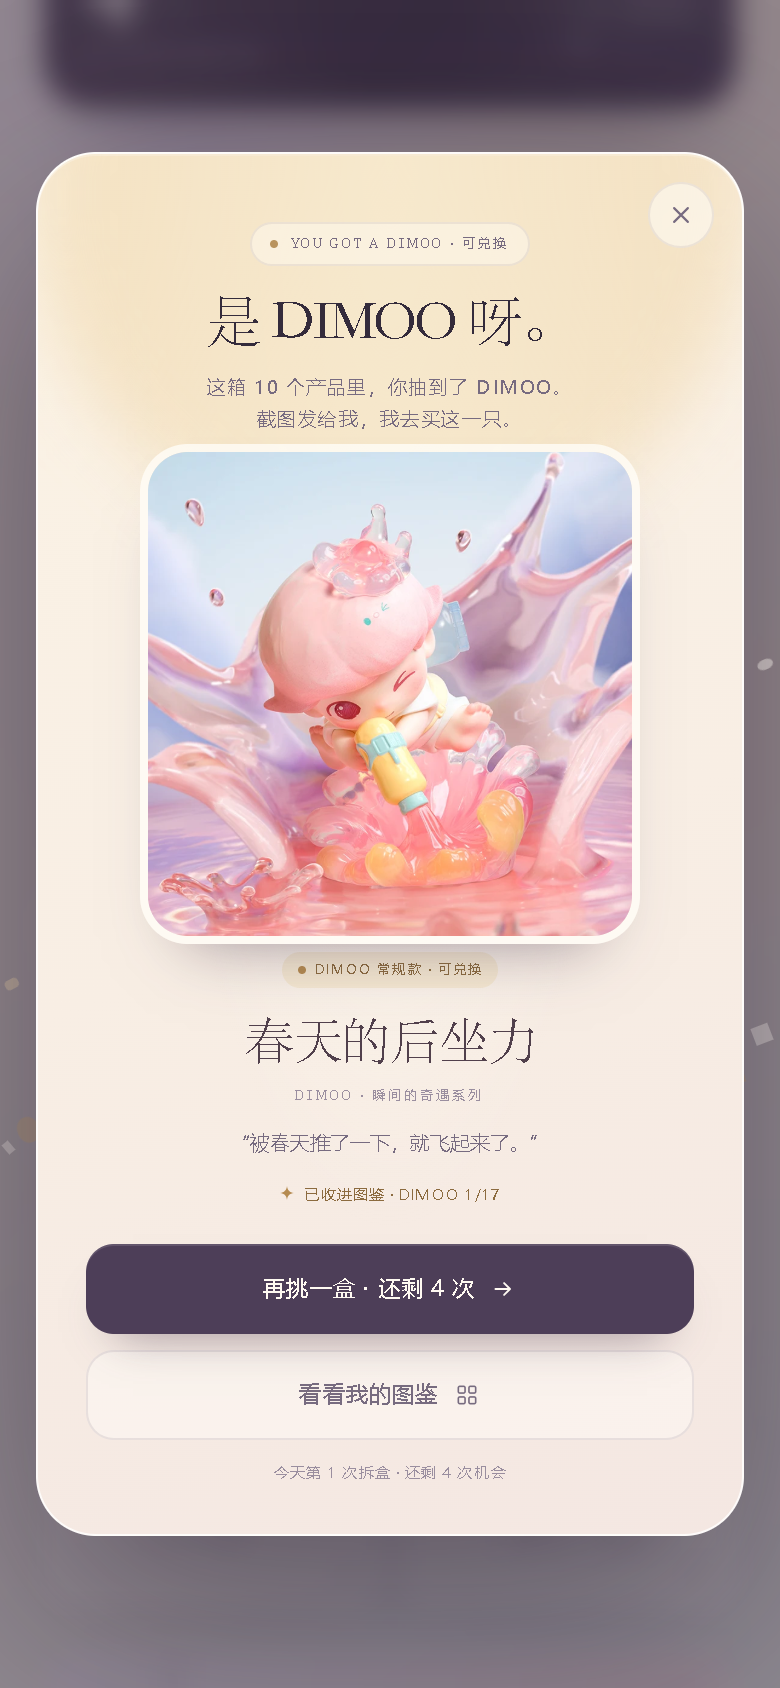
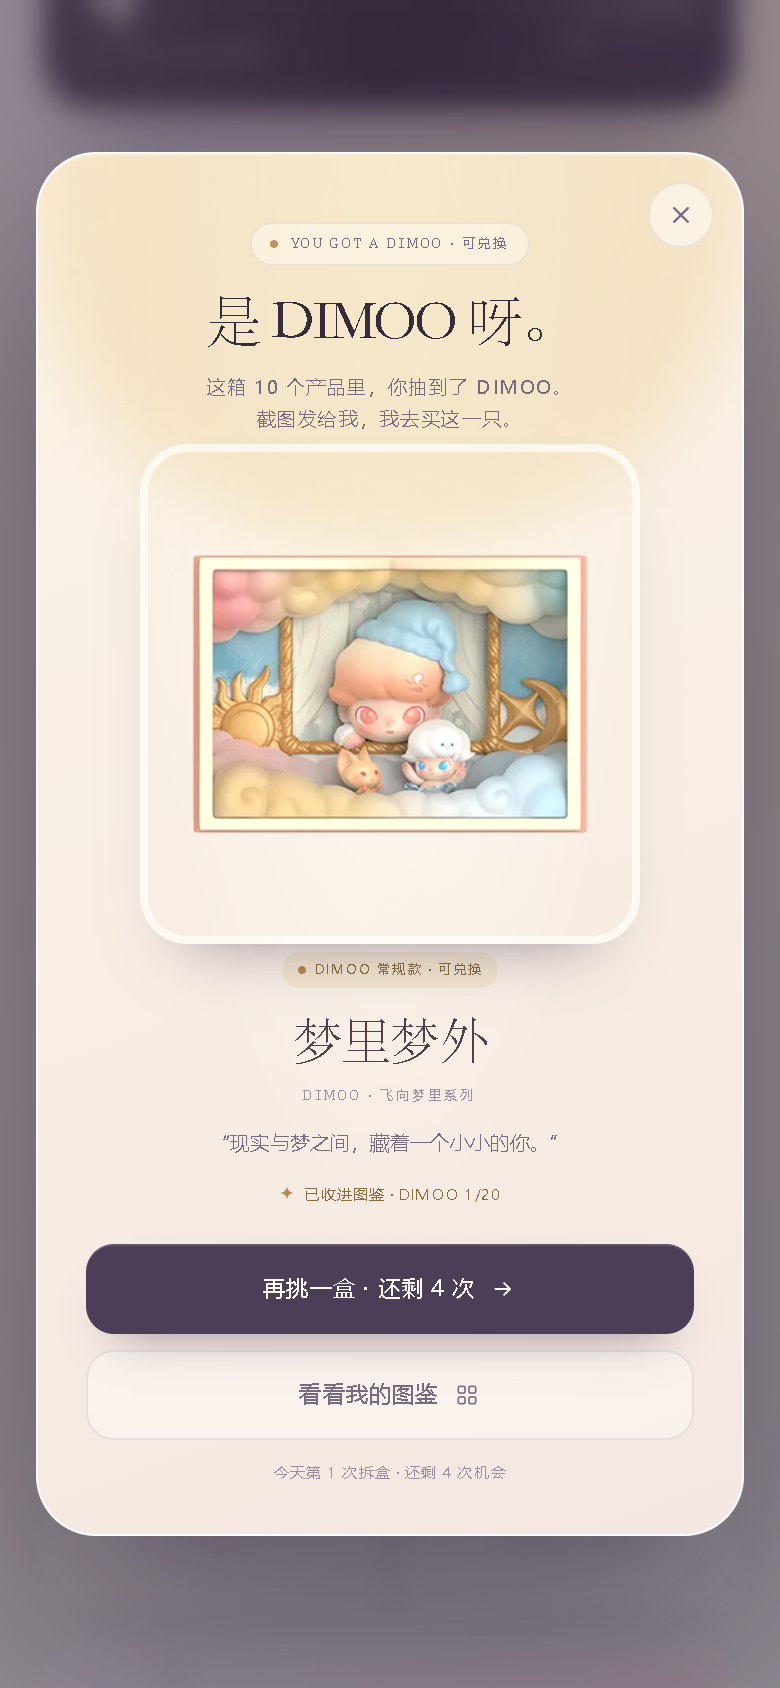
Add newest DIMOO styles and photos for all styles

Changed region(s): [[0.1846, 0.2464, 0.8308, 0.5545], [0.3692, 0.5853, 0.6154, 0.6777], [0.9538, 0.5853, 0.9846, 0.6161]]

diff --git a/app.js b/app.js
@@ -376,6 +376,72 @@
     }
   );
 
+  DIMOO_STYLES.push(
+    {
+      id: "between-dreams",
+      no: "17",
+      name: "梦里梦外",
+      en: "BETWEEN DREAMS AND REALITY",
+      ip: "DIMOO",
+      seriesLabel: "飞向梦里系列",
+      seriesShort: "飞向梦里",
+      redeemable: true,
+      quote: "现实与梦之间，藏着一个小小的你。",
+      prop: "moon",
+      palette: {
+        hair: "#c9d7ea",
+        hairDeep: "#a7b9d2",
+        outfit: "#9aaecb",
+        outfitDeep: "#7d92b1",
+        accent: "#f0d39a",
+        cardA: "#eef4fb",
+        cardB: "#dbe6f3",
+      },
+    },
+    {
+      id: "riding-wind",
+      no: "18",
+      name: "乘风",
+      en: "RIDING THE WIND",
+      ip: "DIMOO",
+      seriesLabel: "飞向梦里系列",
+      seriesShort: "飞向梦里",
+      redeemable: true,
+      quote: "乘着风，去梦里最远的地方。",
+      prop: "paper",
+      palette: {
+        hair: "#e6d5bb",
+        hairDeep: "#cbb693",
+        outfit: "#b9c6a7",
+        outfitDeep: "#95a584",
+        accent: "#f1c87c",
+        cardA: "#f3f7ec",
+        cardB: "#e2ead6",
+      },
+    },
+    {
+      id: "wishwood",
+      no: "19",
+      name: "许愿木",
+      en: "THE WISHWOOD",
+      ip: "DIMOO",
+      seriesLabel: "飞向梦里系列",
+      seriesShort: "飞向梦里",
+      redeemable: true,
+      quote: "把心愿挂上树枝，等它慢慢发光。",
+      prop: "flower",
+      palette: {
+        hair: "#d8e0c2",
+        hairDeep: "#b9c49e",
+        outfit: "#a9b98b",
+        outfitDeep: "#89996d",
+        accent: "#f0d27e",
+        cardA: "#f2f6e9",
+        cardB: "#dfe8cd",
+      },
+    }
+  );
+
   const HIDDEN_DIMOO_STYLE = {
     id: "spring-lights-up",
     no: "H1",
@@ -500,10 +566,10 @@
       id: "crybaby-bunny",
       no: "13",
       name: "哭哭兔",
-      en: "ALL MY LOVE",
+      en: "I'LL GIVE YOU ALL MY LOVE",
       ip: "CRYBABY",
-      seriesLabel: "Crying Again 系列",
-      seriesShort: "Crying Again",
+      seriesLabel: "Crying Again 毛绒系列",
+      seriesShort: "Crying Again 毛绒",
       redeemable: false,
       quote: "今天不哭，把眼泪留给值得的事。",
       label: "CRYBABY",
@@ -524,10 +590,10 @@
       id: "crybaby-bear",
       no: "14",
       name: "哭哭熊",
-      en: "LOVE MAKE US CRY",
+      en: "LOVE MAKES US CRY",
       ip: "CRYBABY",
-      seriesLabel: "Crying Again 系列",
-      seriesShort: "Crying Again",
+      seriesLabel: "Crying Again 毛绒系列",
+      seriesShort: "Crying Again 毛绒",
       redeemable: false,
       quote: "抱一下，眼泪就变甜了。",
       label: "CRYBABY",
@@ -594,6 +660,21 @@
     },
   ];
 
+  const OTHER_IMAGES = {
+    "molly-classic": "./assets/other/molly-classic.webp",
+    "molly-little-moon": "./assets/other/molly-little-moon.webp",
+    "skullpanda-warmth": "./assets/other/skullpanda-warmth.webp",
+    "skullpanda-day-off": "./assets/other/skullpanda-day-off.webp",
+    "crybaby-bunny": "./assets/other/crybaby-bunny.webp",
+    "crybaby-bear": "./assets/other/crybaby-bear.webp",
+    "crybaby-stolen-heart": "./assets/other/crybaby-stolen-heart.webp",
+    "crybaby-rose": "./assets/other/crybaby-rose.webp",
+  };
+
+  for (const style of OTHER_STYLES) {
+    if (OTHER_IMAGES[style.id]) style.image = OTHER_IMAGES[style.id];
+  }
+
   const DIMOO_IMAGES = {
     "packed-spring": "./assets/dimoo/packed-spring.webp",
     blossom: "./assets/dimoo/blossom.webp",
@@ -612,6 +693,9 @@
     "light-up": "./assets/dimoo/light-up.webp",
     "candy-for-you": "./assets/dimoo/candy-for-you.webp",
     "spring-lights-up": "./assets/dimoo/spring-lights-up.webp",
+    "between-dreams": "./assets/dimoo/between-dreams.webp",
+    "riding-wind": "./assets/dimoo/riding-wind.webp",
+    wishwood: "./assets/dimoo/wishwood.webp",
   };
 
   for (const style of [...DIMOO_STYLES, HIDDEN_DIMOO_STYLE]) {
@@ -1729,7 +1813,7 @@
     const ownedOther = getOwnedOtherIds();
     const ownedCount = ownedDimoo.length + ownedOther.length;
     els.albumBadge.textContent = String(ownedCount);
-    els.albumFeatureMeta.textContent = `${ownedDimoo.length} / 17 DIMOO`;
+    els.albumFeatureMeta.textContent = `${ownedDimoo.length} / 20 DIMOO`;
     els.statDimoo.textContent = String(ownedDimoo.length);
     els.statOther.textContent = String(ownedOther.length);
     els.statDraws.textContent = String(state.stats.draws);
@@ -2039,7 +2123,7 @@
       remaining > 0 ? `再挑一盒 · 还剩 ${remaining} 次` : "收好，回盒架";
     const repeatLine = countForStyle > 1 ? ` · 第 ${countForStyle} 次遇见` : "";
     const ownedLine = isDimoo
-      ? `已收进图鉴 · DIMOO ${ownedDimoo}/17${repeatLine}`
+      ? `已收进图鉴 · DIMOO ${ownedDimoo}/20${repeatLine}`
       : `已收进图鉴 · 其他 IP ${ownedOther}/8${repeatLine}`;
 
     const body = isDimoo
@@ -2062,7 +2146,7 @@
           kicker: "ANOTHER POP MART · 不兑换",
           title: "是别的泡泡玛特呀。",
           sub: "这次不是 DIMOO。<br>按约定，这一只不买，只收进图鉴。",
-          art: otherProductSVG(style, `result-${record.at}`),
+          art: styleArtwork(style, `result-${record.at}`),
           badgeClass: "result-badge result-badge--other",
           badge: "其他泡泡玛特 · 不兑换",
           series: `${style.ip} · ${style.seriesLabel}`,

diff --git a/index.html b/index.html
@@ -228,7 +228,7 @@
           <span class="feature-text">
             <small>MY COLLECTION</small>
             <b>我的图鉴</b>
-            <em id="albumFeatureMeta">0 / 17 DIMOO</em>
+            <em id="albumFeatureMeta">0 / 20 DIMOO</em>
           </span>
           <svg class="icon feature-arrow"><use href="#i-arrow"></use></svg>
         </button>
@@ -280,7 +280,7 @@
       <p class="sheet-note">抽中 DIMOO 才兑换；其他泡泡玛特产品只收进图鉴，不兑换。</p>
 
       <div class="album-stats">
-        <div><strong id="statDimoo">0</strong><span>/ 17</span><small>DIMOO（含隐藏）</small></div>
+        <div><strong id="statDimoo">0</strong><span>/ 20</span><small>DIMOO（含隐藏）</small></div>
         <div><strong id="statOther">0</strong><span>/ 8</span><small>其他泡泡玛特</small></div>
         <div><strong id="statDraws">0</strong><span>次</span><small>拆盒次数</small></div>
       </div>
@@ -331,7 +331,7 @@
 
       <div class="rule-copy">
         <p>一箱 10 盒，全部有产品，没有空盒。每箱固定 2 个 DIMOO + 8 个其他 IP 产品；10 个产品互不重复，位置随机打乱。</p>
-        <p>每批先掷一次隐藏：约 5% 概率把其中一个 DIMOO 换成隐藏款「春天亮起来」，剩下一个仍是常规 DIMOO；其余 95% 是 2 个常规 DIMOO。常规 DIMOO 从 16 款中不重复抽取（最新「瞬间的奇遇」全 12 款 + 4 款经典）。</p>
+        <p>每批先掷一次隐藏：约 5% 概率把其中一个 DIMOO 换成隐藏款「春天亮起来」，剩下一个仍是常规 DIMOO；其余 95% 是 2 个常规 DIMOO。常规 DIMOO 从 19 款中不重复抽取（「瞬间的奇遇」全 12 款 +「飞向梦里」3 款 + 4 款经典）。</p>
         <p>8 个其他 IP 产品固定。每天 5 次机会，次日零点补满；这一箱没拆完会留到明天，10 盒拆完后自动换新箱。</p>
         <p>开箱前随机挑一盒，抽中 DIMOO 的概率是 2/10 = 20%（隐藏款也算 DIMOO）；已知开盒结果或提示后，剩余盒子的实际概率会变化。没有空盒，也没有保底。</p>
         <p><b>换下一批：</b>点盒子下面的“换下一批十盒”，可以不消耗今日次数自由换一批。新一批会重新随机 2 个 DIMOO、隐藏款和 10 个盒位，并重置本箱进度和提示；已经拆到的产品、图鉴和次数都保留。</p>
@@ -351,7 +351,7 @@
 
       <div class="disclaimer">
         <svg class="icon"><use href="#i-info"></use></svg>
-        <p>本页面为个人制作的同人向小工具，非泡泡玛特官方产品。DIMOO、MOLLY、SKULLPANDA、CRYBABY 的产品名仅用于私人抽盒结果的索引；DIMOO 结果照片引用自 POP MART 官方商品图，仅用于私人识别，版权归原权利人所有；其他 IP 的包装为手绘同人版本，并非官方商品图。页面不售卖任何商品，也不涉及真实交易；抽盒记录仅保存在当前浏览器里，换设备或清理浏览器数据后不会同步。</p>
+        <p>本页面为个人制作的同人向小工具，非泡泡玛特官方产品。DIMOO、MOLLY、SKULLPANDA、CRYBABY 的产品名仅用于私人抽盒结果的索引；所有结果页和图鉴照片均引用自 POP MART 官方商品图，仅用于私人识别，版权归原权利人所有；抽盒机外壳插画为手绘同人版本。页面不售卖任何商品，也不涉及真实交易；抽盒记录仅保存在当前浏览器里，换设备或清理浏览器数据后不会同步。</p>
       </div>
 
       <button class="sheet-primary" type="button" data-close-dialog>知道啦</button>

diff --git a/sw.js b/sw.js
@@ -1,5 +1,5 @@
 /* 云朵抽盒社 · offline shell */
-const CACHE_NAME = "cloudbox-gift-v10";
+const CACHE_NAME = "cloudbox-gift-v11";
 const APP_SHELL = [
   "./",
   "./index.html",
@@ -29,6 +29,17 @@ const APP_SHELL = [
   "./assets/dimoo/light-up.webp",
   "./assets/dimoo/candy-for-you.webp",
   "./assets/dimoo/spring-lights-up.webp",
+  "./assets/dimoo/between-dreams.webp",
+  "./assets/dimoo/riding-wind.webp",
+  "./assets/dimoo/wishwood.webp",
+  "./assets/other/molly-classic.webp",
+  "./assets/other/molly-little-moon.webp",
+  "./assets/other/skullpanda-warmth.webp",
+  "./assets/other/skullpanda-day-off.webp",
+  "./assets/other/crybaby-bunny.webp",
+  "./assets/other/crybaby-bear.webp",
+  "./assets/other/crybaby-stolen-heart.webp",
+  "./assets/other/crybaby-rose.webp",
 ];
 
 self.addEventListener("install", (event) => {

diff --git a/README.md b/README.md
@@ -2,7 +2,7 @@
 
 一台只给一个人开机的泡泡玛特云朵抽盒机。参考泡泡玛特抽盒小程序的“挑盒 / 摇提示 / 拆盒 / 集图鉴”体验，做成了不需要服务器、打开就能玩的私人 H5。
 
-**现在没有空盲盒。一箱 10 盒，全部是产品；每箱固定 2 个 DIMOO + 8 个其他 IP。2 个 DIMOO 从 16 款常规 + 1 款隐藏里随机，隐藏款每批约 5% 概率出现；盒子下面可以自由“换下一批十盒”。**
+**现在没有空盲盒。一箱 10 盒，全部是产品；每箱固定 2 个 DIMOO + 8 个其他 IP。2 个 DIMOO 从 19 款常规 + 1 款隐藏里随机，隐藏款每批约 5% 概率出现；盒子下面可以自由“换下一批十盒”。所有款式都有对应的官方商品照片。**
 
 ![首页](preview/home-top.png)
 
@@ -11,32 +11,33 @@
 - **一箱 10 盒，全部有产品**：没有空盒、没有“再来一次”。
 - **每箱固定 2 个 DIMOO + 8 个其他 IP 产品**：10 个产品互不重复，位置每批重新打乱。
 - **隐藏款 DIMOO「春天亮起来」**：每批约 **5%** 概率把其中一个 DIMOO 换成隐藏款；剩下一个仍是常规 DIMOO。每批最多 1 个隐藏，隐藏也算 DIMOO，可兑换。
-- **16 款常规 DIMOO 随机**：最新「瞬间的奇遇」全 12 款 + 4 款经典，从 16 款里不重复抽 2 款；不是固定只出原来那四款。
-- **每个常规款都有对应商品照片**：结果页中间显示抽到的具体款式照片，不再用一张通用 DIMOO 插画代替。
+- **19 款常规 DIMOO 随机**：「瞬间的奇遇」全 12 款 +「飞向梦里」3 款 + 4 款经典，从 19 款里不重复抽 2 款；不是固定只出原来那四款。
+- **每个款式都有对应商品照片**：DIMOO 的 19 款常规 + 1 款隐藏，以及 MOLLY / SKULLPANDA / CRYBABY 的 8 款，都有自己的官方商品图；结果页中间显示抽到的具体款式照片，不再用通用插画代替。
 - **自由换下一批**：盒子下方有“换下一批十盒”。不消耗今日次数；会重新随机 2 个 DIMOO、隐藏款和 10 个盒位，并重置本箱进度和提示。已经拆到的产品、图鉴、统计和今日次数都保留。
 - **其他 8 个产品固定**：来自 MOLLY / SKULLPANDA / CRYBABY，共 2 个 MOLLY + 2 个 SKULLPANDA + 4 个 CRYBABY。每批变化的是 2 个 DIMOO、隐藏和 10 个盒位。
 - **每天 5 次机会**：北京时间 00:00 补满；这一箱没拆完会留到明天，10 盒拆完后自动换新箱。
 - **只有 DIMOO / 隐藏款才兑换**：抽中后截图给男朋友，他去买对应盲盒；抽中其他 IP 产品，按约定不兑换，只收进图鉴。
 - **每个盒子 2 次排除提示**：提示会从**本箱 10 个产品**里排除一个，不会改变盒内结果，也不会透露位置。
 - **提示跨天保留**：提示跟着盒子走；拆完这一箱或换下一批时才刷新。
-- **图鉴与记录**：16 款常规 DIMOO + 1 款隐藏 + 8 款其他 IP，共 25 个图鉴位；DIMOO 统计为 /17，并记录拆盒次数。
+- **图鉴与记录**：19 款常规 DIMOO + 1 款隐藏 + 8 款其他 IP，共 28 个图鉴位；DIMOO 统计为 /20，并记录拆盒次数。
 - **移动端优先**：支持添加到手机主屏幕，作为 PWA 离线打开。
 - **没有付费、没有后台、没有真实交易**：记录只存在当前浏览器里。
 
 ## 这一版新增
 
 - 补齐最新「瞬间的奇遇」全 12 款常规，另有 1 款隐藏；
-- 保留原来的 4 款经典，DIMOO 常规款扩到 16 款；
-- 每个常规款都有对应的官方商品照片，结果页中间直接显示抽到的具体款式；
+- 加入 2026 年 11 月最新的「飞向梦里」3 款常规；
+- 保留原来的 4 款经典，DIMOO 常规款扩到 19 款；
+- DIMOO、MOLLY、SKULLPANDA、CRYBABY 所有款式都补上了官方商品照片，结果页中间直接显示抽到的具体款式；
 - 加入隐藏款 DIMOO「春天亮起来」，每批约 5%；
 - 加入“换下一批十盒”按钮，可自由切换批次，不消耗次数；
 - 换批会重新随机 2 个 DIMOO、隐藏款和 10 个盒位；
 - 新批次的 2 个 DIMOO 组合会与上一批不同，不会连续刷出同一组；
-- 图鉴扩到 25 格，DIMOO 统计改为 /17。
+- 图鉴扩到 28 格，DIMOO 统计改为 /20。
 
 ## 完整产品池
 
-### DIMOO：每箱随机 2 个（常规 16 款 + 隐藏 1 款）
+### DIMOO：每箱随机 2 个（常规 19 款 + 隐藏 1 款）
 
 | 系列 | 款式 | 类型 |
 | --- | --- | --- |
@@ -52,6 +53,9 @@
 | 瞬间的奇遇系列 | 带我去远方 | 常规 |
 | 瞬间的奇遇系列 | 吹响春天 | 常规 |
 | 瞬间的奇遇系列 | 坠入花海 | 常规 |
+| 飞向梦里系列 | 梦里梦外 | 常规 |
+| 飞向梦里系列 | 乘风 | 常规 |
+| 飞向梦里系列 | 许愿木 | 常规 |
 | 动物王国系列 | 哄睡兔宝 | 常规 |
 | 动物王国系列 | 小鸭领队 | 常规 |
 | 在你身边系列 | 为你点灯 | 常规 |
@@ -59,7 +63,7 @@
 | 瞬间的奇遇系列 | **春天亮起来** | **隐藏款** |
 
 - 每批先掷一次隐藏：约 5% 概率变成“1 个隐藏 + 1 个常规”，其余 95% 是“2 个常规”。
-- 常规 DIMOO 从 16 款里不重复抽 2 款；隐藏款不会和另一只隐藏同时出现。
+- 常规 DIMOO 从 19 款里不重复抽 2 款；隐藏款不会和另一只隐藏同时出现。
 - 隐藏款出现时，本箱仍然是 2 个 DIMOO，不会变成 3 个。
 - 每款常规 DIMOO 都有独立照片，结果页和已解锁图鉴显示对应商品图，不会用同一张通用图代替。
 
@@ -71,8 +75,8 @@
 | MOLLY | 周年雕塑经典回归系列 | 月球小星星 | 不兑换 |
 | SKULLPANDA | 温度系列 | 下雨天 | 不兑换 |
 | SKULLPANDA | 温度系列 | 放轻松 | 不兑换 |
-| CRYBABY | Crying Again 系列 | 哭哭兔 | 不兑换 |
-| CRYBABY | Crying Again 系列 | 哭哭熊 | 不兑换 |
+| CRYBABY | Crying Again 毛绒系列 | 哭哭兔 | 不兑换 |
+| CRYBABY | Crying Again 毛绒系列 | 哭哭熊 | 不兑换 |
 | CRYBABY | Crying For Love 系列 | 偷心大盗 | 不兑换 |
 | CRYBABY | Crying For Love 系列 | 等爱的玫瑰红 | 不兑换 |
 
@@ -96,6 +100,10 @@
 | 其他 IP（不兑换） | 云朵图鉴 |
 | --- | --- |
 | ![其他 IP](preview/other.png) | ![图鉴](preview/album.png) |
+
+其他 8 款也已经全部换成官方照片：
+
+![其他 IP 图鉴](preview/album-other.png)
 
 本箱 10 个产品可以在“概率说明”里查看，隐藏款会单独标出来：
 
@@ -146,7 +154,7 @@ python -m http.server 4173
 
 打开 `app.js`：
 
-- `DIMOO_STYLES`：16 款常规 DIMOO 候选池（最新 12 款 + 经典 4 款）。
+- `DIMOO_STYLES`：19 款常规 DIMOO 候选池（瞬间的奇遇 12 款 + 飞向梦里 3 款 + 经典 4 款）。
 - `HIDDEN_DIMOO_STYLE`：隐藏款「春天亮起来」。
 - `OTHER_STYLES`：8 款其他 IP，每批全部放入。
 - `CONFIG.hiddenChance`：默认 `0.05`，即每批约 5%。改这里就能调隐藏概率；记得同步改页面上的“约 5%”文案。
@@ -201,7 +209,8 @@ cloudbox/
 ├── robots.txt                 禁止搜索引擎收录
 ├── _headers                   静态托管隐私响应头
 ├── assets/
-│   └── dimoo/                 DIMOO 各款式官方参考图
+│   ├── dimoo/                 DIMOO 各款式官方参考图
+│   └── other/                 MOLLY / SKULLPANDA / CRYBABY 官方参考图
 ├── icons/                     App 图标 / favicon / 分享封面
 ├── preview/                   README 截图
 ├── scripts/
@@ -213,12 +222,19 @@ cloudbox/
 
 这是一个个人制作的同人向小礼物，**不是泡泡玛特官方产品**。DIMOO、MOLLY、SKULLPANDA、CRYBABY 的产品名仅用于私人抽盒结果的索引。
 
-DIMOO 结果页和图鉴里的商品照片来自 POP MART 官方商品页，仅用于私人识别抽到的款式，版权归原权利人所有；其他 IP 的包装为手绘同人版本，并非官方商品图。页面不售卖任何商品，也不涉及真实交易，请不要商用或公开传播。
+DIMOO、MOLLY、SKULLPANDA、CRYBABY 的结果页和图鉴商品照片均来自 POP MART 官方商品页，仅用于私人识别抽到的款式，版权归原权利人所有；抽盒机外壳插画为手绘同人版本。页面不售卖任何商品，也不涉及真实交易，请不要商用或公开传播。
 
 图片来源：
 
 - [DIMOO Moments in Bloom Series Figures](https://www.popmart.com/us/products/5995/dimoo-moments-in-bloom-series-figures)
+- [DIMOO WORLD Into the Dreamscape Series Figures](https://www.popmart.com/ca/products/9611/dimoo-world-into-the-dreamscape-series-figures)
 - [DIMOO Animal Kingdom Series Figures](https://www.popmart.com/us/products/1019/dimoo-animal-kingdom-series-figures)
 - [DIMOO By Your Side Series Figures](https://www.popmart.com/en-US/products/1296/DIMOO-By-Your-Side-Series-Figures)
+- [MOLLY Scenery Along the Way 20th Anniversary Series Figures](https://www.popmart.com/us/products/6078/molly-scenery-along-the-way-20th-anniversary-series-figures)
+- [MOLLY Anniversary Statues Classical Retro Series Figures](https://www.popmart.com/us/products/575/molly-anniversary-statues-classical-retro-series-figures-3604)
+- [SKULLPANDA The Warmth Series](https://www.popmart.com/us/products/9/SKULLPANDA-The-Warmth-Series)
+- [CRYBABY Crying Again Series Figures](https://www.popmart.com/us/products/1532/crybaby-crying-again-series-figures)
+- [CRYBABY Crying Again Vinyl Face Plush](https://www.popmart.com/ca/products/1815/crybaby-crying-again-series-vinyl-face-plush-blind-box)
+- [CRYBABY Crying For Love Series Figures](https://www.popmart.com/us/products/1870/local-warehouse-crybaby-crying-for-love-series-figures)
 
 抽中 DIMOO 或隐藏款才是真的中奖；其他 IP 产品按约定只收进图鉴。每一批的 DIMOO 和隐藏款都是随机来的，下一批可能就换成别的组合了。
